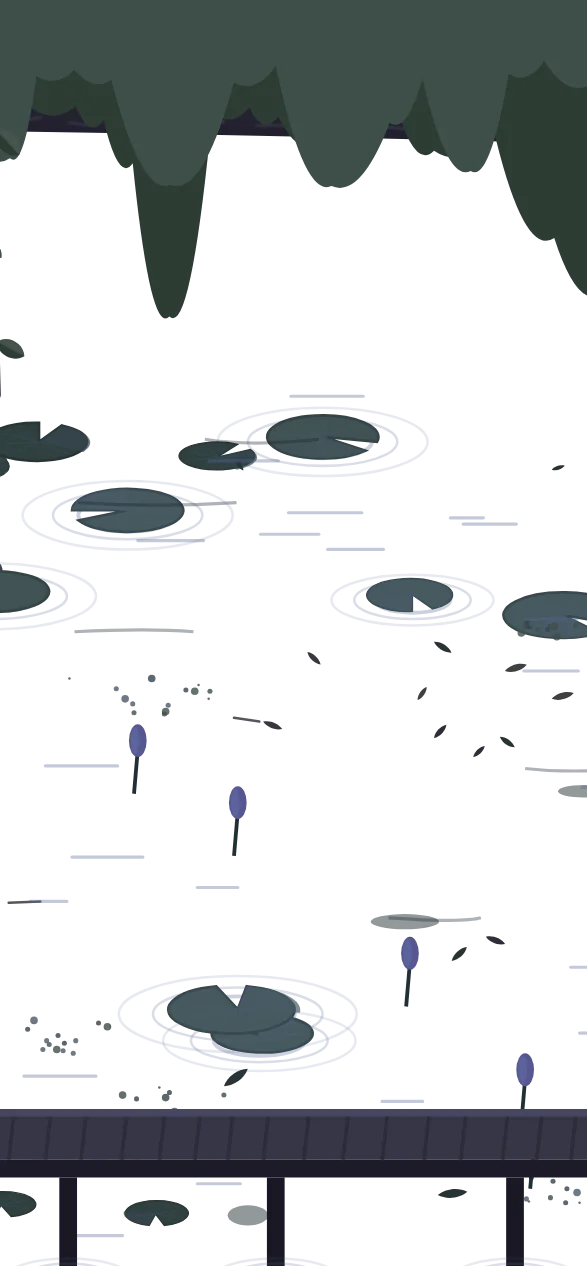
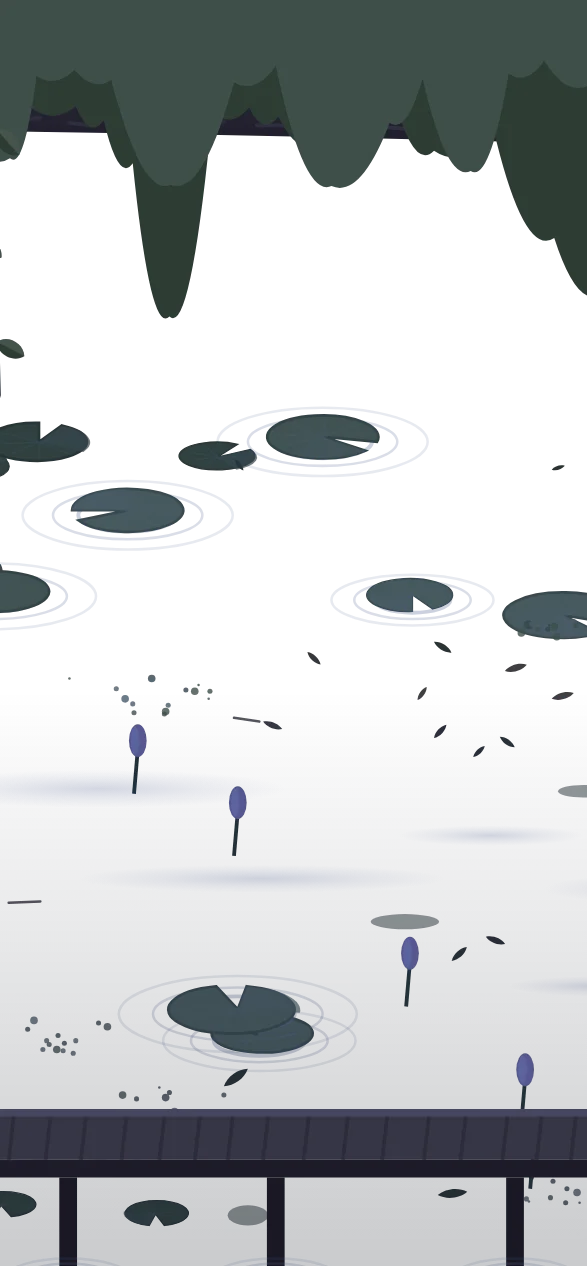
Make the waterside pond read as water, not dashes
Claude-Session: https://claude.ai/code/session_01EHtmNVvLo6L45VFzzqfGpi

diff --git a/assets/js/nature.js b/assets/js/nature.js
@@ -623,6 +623,14 @@ function trailDetail(x0, x1, y, h) {
   }
   return s;
 }
+// 水面らしさ：線は描かず、空の明るさが映るふちのぼやけた大きな光のむらと、手前ほど深くなる色
+function waterSheen(x0, x1, y0, y1) {
+  const d = hrng(x0 * 3.1 + x1 * .7), id = `ws${gid++}`, dp = `wd${gid++}`;
+  let s = `<defs><radialGradient id="${id}"><stop offset="0" stop-color="#eef4dc" stop-opacity=".22"/><stop offset=".55" stop-color="#eef4dc" stop-opacity=".08"/><stop offset="1" stop-color="#eef4dc" stop-opacity="0"/></radialGradient><linearGradient id="${dp}" x1="0" y1="0" x2="0" y2="1"><stop offset="0" stop-color="#1f2a18" stop-opacity="0"/><stop offset="1" stop-color="#1f2a18" stop-opacity=".22"/></linearGradient></defs>`;
+  s += `<rect x="${n1(x0)}" y="${n1(y0 + (y1 - y0) * .35)}" width="${n1(x1 - x0)}" height="${n1((y1 - y0) * .65)}" fill="url(#${dp})"/>`;
+  for (let x = x0; x < x1; x += 7 + d() * 12) { const y = y0 + 4 + d() * (y1 - y0 - 8), t = (y - y0) / (y1 - y0), rx = 6 + d() * 12 * (1.2 - t * .5); s += `<ellipse cx="${n1(x)}" cy="${n1(y)}" rx="${n1(rx)}" ry="${n1(rx * (.07 + d() * .05))}" fill="url(#${id})"/>`; }
+  return s;
+}
 function hazeTrunk(x, base, h, w, lean, c) {
   const d = hrng(x * 5.3 + h), top = base - h - 6, fork = base - h * (.55 + d() * .2), bend = (d() - .5) * w * 1.6;
   const X = (y) => { const t = (base - y) / (base - top); return x + lean * t * 4 + Math.sin(t * Math.PI) * bend; }, Wd = (y) => { const t = (base - y) / (base - top); return w * (1 - t * .45) * (t < .04 ? 1.5 - t * 12 : 1); };
@@ -1192,13 +1200,14 @@ export function sceneJungle(W, stops, { birdGap = -1 } = {}) {
     for (let k = 0; k < 14; k++) mid += `<circle cx="${n1(cx + R(-sp, sp))}" cy="${n1(cy + R(-sp, sp) * .3)}" r="${n1(R(.12, .3))}" fill="${pick(['#a5c23e', '#8aa35a', '#c9d77a'])}" opacity=".8"/>`;
   }
   mid += litter(-5, mw, 36, 98, Math.round(mw * .35), ['#8a6a3a', '#a5813e', '#b8923e', '#6f7d2e']);
-  for (let i = 0; i < mw / 10; i++) { const x = R(0, mw), y = R(30, 98); mid += `<path d="M${n1(x)} ${n1(y)}q${n1(R(3, 7))} ${n1(R(-.6, .6))} ${n1(R(7, 14))} 0" stroke="#4f5a35" stroke-width=".25" fill="none" opacity=".35"/>`; }
+  for (let i = 0; i < mw / 10; i++) { R(0, mw); R(30, 98); R(3, 7); R(-.6, .6); R(7, 14); } // （水面の暗い線はやめた。乱数の並びだけ残す）
   for (let s = 0; s < stops; s++) {
     const cx = at(W, FACTORS.mid)(s, W / 2);
     // 葦は台（桟橋の上の木の台）の横に重ならないところだけ（狭い画面では台の縁にかかるので置かない）
     for (const [dx, n, c] of [[-.34, 7, '#6f8a3a'], [.36, 6, '#7c9a40']]) { const x = cx + W * dx; if (clearOfWorks(W, stops, x - 3, 2) && clearOfWorks(W, stops, x + 3, 2)) mid += reeds(x, 100, n, c); }
   }
-  for (let i = 0; i < mw / 3; i++) mid += `<path d="M${n1(R(0, mw))} ${n1(R(30, 100))}h${n1(R(2, 6))}" stroke="#e8efd0" stroke-width=".25" opacity=".35" stroke-linecap="round"/>`;
+  for (let i = 0; i < mw / 3; i++) { R(0, mw); R(30, 100); R(2, 6); } // （白い横線はやめた：チープに見えるので。乱数の並びだけ残す）
+  mid += waterSheen(-5, mw + 5, 30, 100);
   // 生きもの：蓮の葉のカエル、水面のトンボとアメンボ、丸太のカメ、浅瀬のサギ、つるの先のカワセミ（作品の枠にはかからないところに）
   for (let s = 0; s < stops; s++) {
     // 立入禁止の枠：作品そのもの（上のほう）と、その下の台（細い）。台の横の水面は使える
